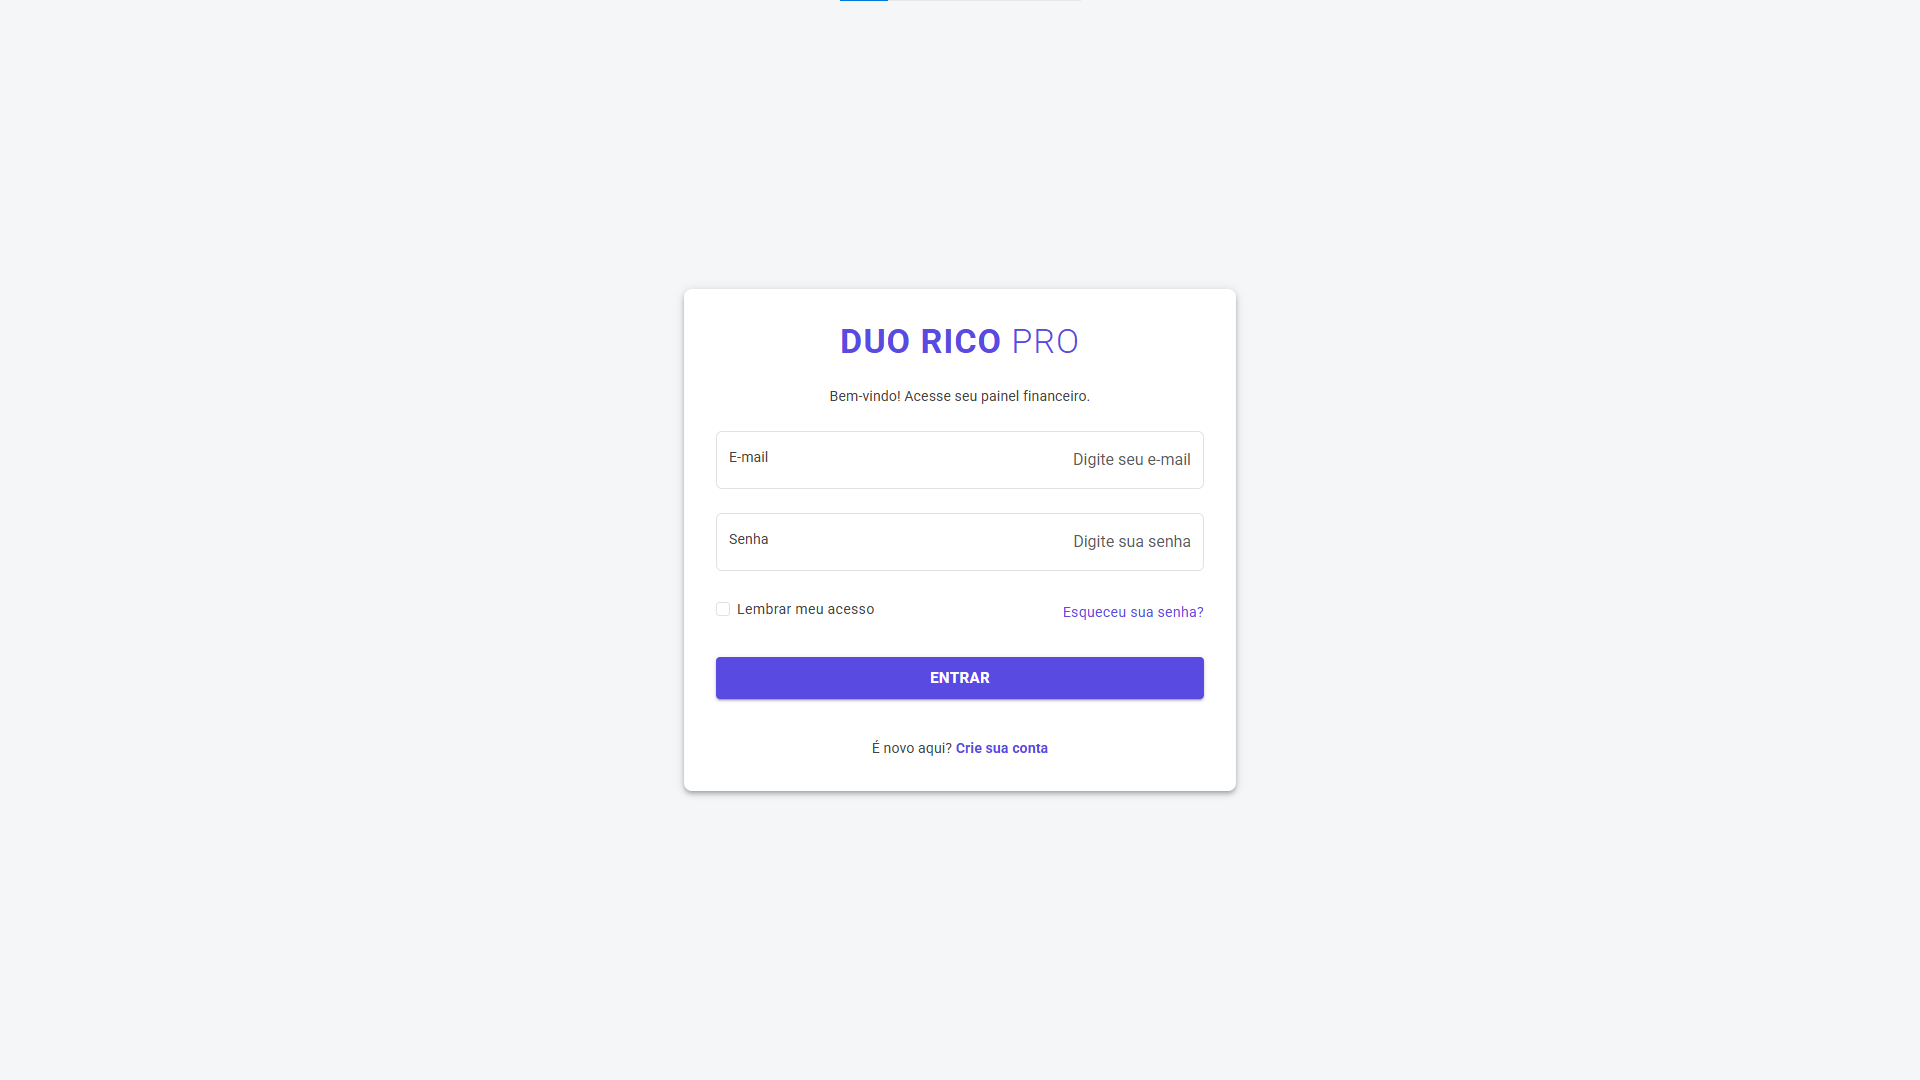
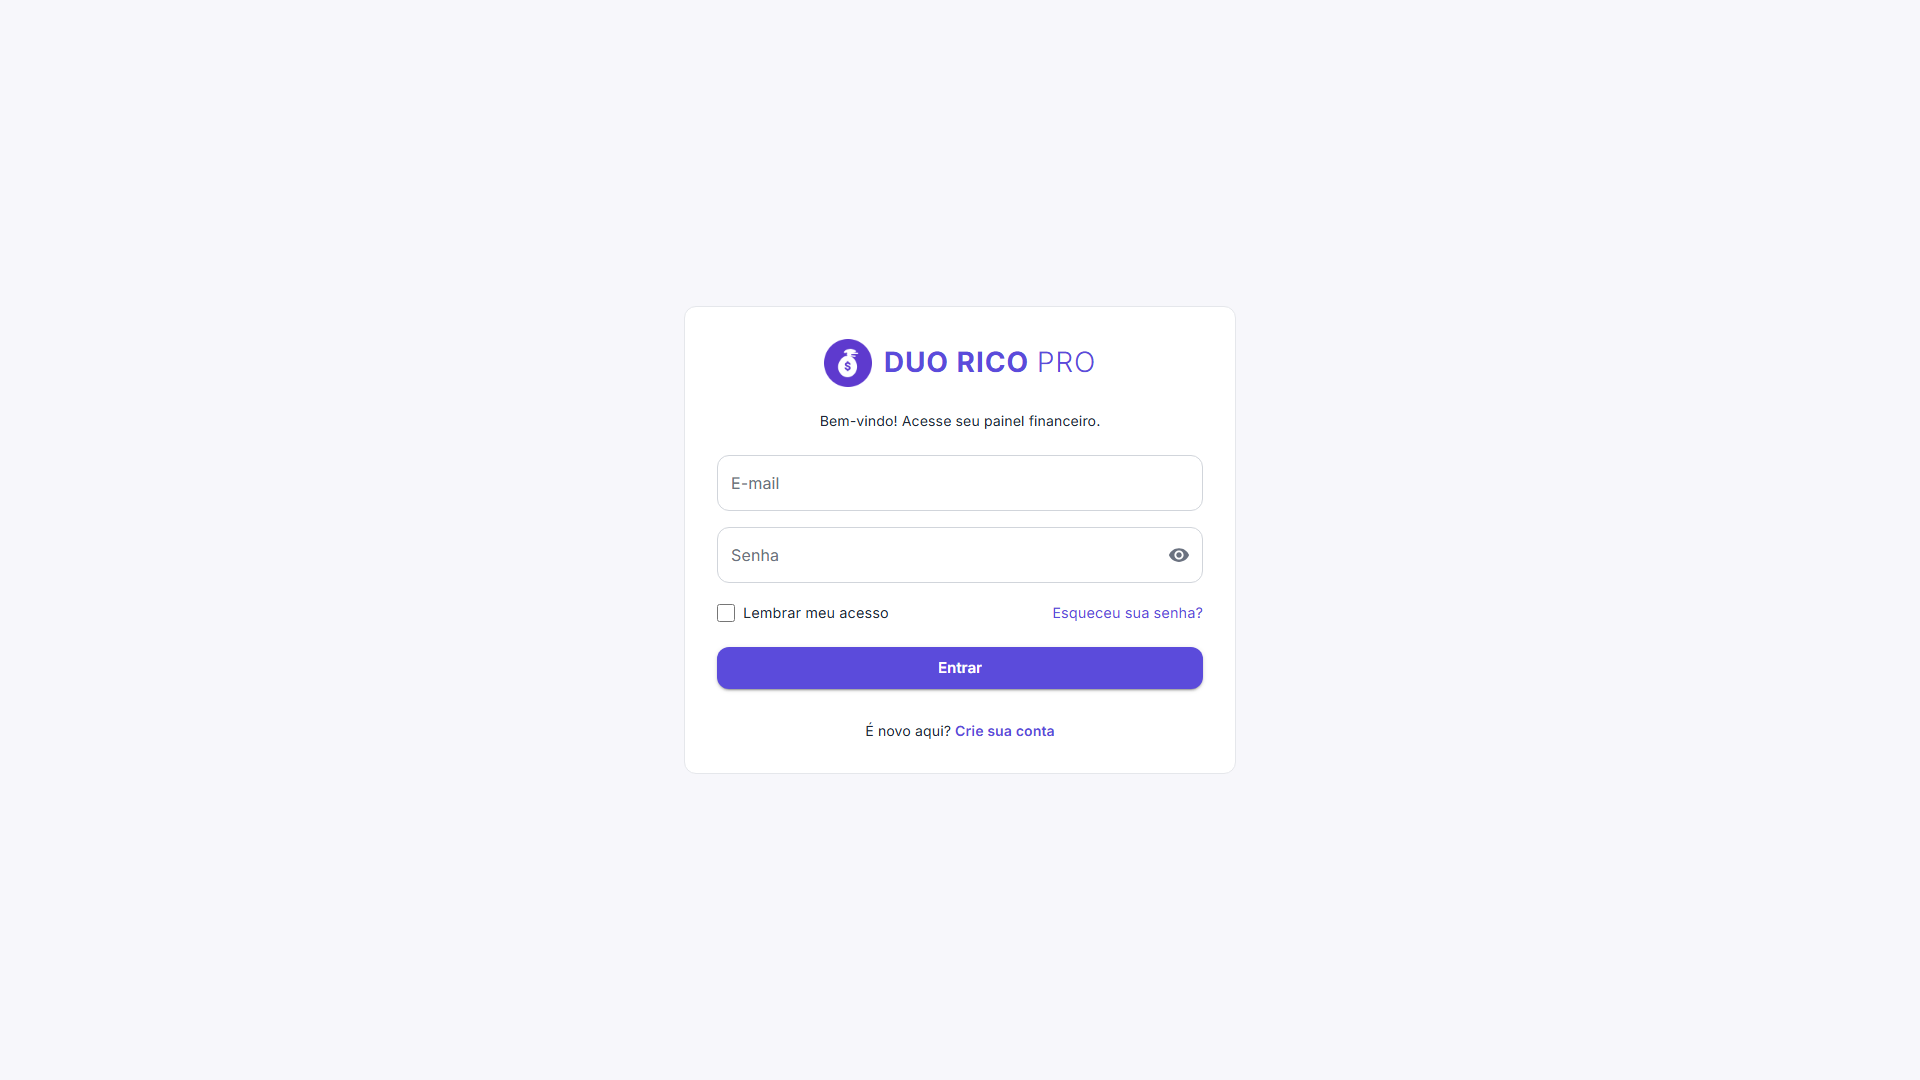
Update README screenshots. Regenerates the 6 existing screenshots in docs/images with the current UI and fictional demo data (two linked demo users on a disposable Neon branch, Brevo replaced by the Log email provider), and adds 3 new ones: expenses, emergency fund dialog and couple page. The README

diff --git a/README.md b/README.md
@@ -389,18 +389,27 @@ Para procedimentos de deploy, rollback, migrations em produção e recuperação
 # 📸 Screenshots
 
 <p align="center">
-  <img src="docs/images/login.png" width="45%">
-  <img src="docs/images/dashboard.png" width="45%">
+  <img src="docs/images/login.png" width="45%" alt="Tela de login">
+  <img src="docs/images/dashboard.png" width="45%" alt="Visão geral com saldo do mês, reserva de emergência, uso do cartão e últimas despesas">
 </p>
 
 <p align="center">
-  <img src="docs/images/income.png" width="45%">
-  <img src="docs/images/profile.png" width="45%">
+  <img src="docs/images/income.png" width="45%" alt="Lista de receitas do mês">
+  <img src="docs/images/expenses.png" width="45%" alt="Lista de despesas do mês com parcelamento">
 </p>
 
 <p align="center">
-  <img src="docs/images/new_transaction.png" width="45%">
-  <img src="docs/images/edit_transaction.png" width="45%">
+  <img src="docs/images/new_transaction.png" width="45%" alt="Diálogo de nova despesa">
+  <img src="docs/images/edit_transaction.png" width="45%" alt="Diálogo de edição de receita">
+</p>
+
+<p align="center">
+  <img src="docs/images/emergency_fund.png" width="45%" alt="Diálogo da reserva de emergência">
+  <img src="docs/images/couple.png" width="45%" alt="Tela de vínculo do casal">
+</p>
+
+<p align="center">
+  <img src="docs/images/profile.png" width="45%" alt="Tela de perfil">
 </p>
 
 ---

diff --git a/CHANGELOG.md b/CHANGELOG.md
@@ -15,6 +15,7 @@ O formato segue o [Keep a Changelog](https://keepachangelog.com/pt-BR/1.1.0/) e 
 ### Alterado
 
 - README enxuto: links para a nova documentação, Dockerfile referenciado em vez de copiado, procedimento do certificado do Data Protection movido para o runbook.
+- Screenshots do README atualizados com dados fictícios, incluindo Despesas, Casal e Reserva de emergência.
 
 ## [1.0.0] - 2026-10-23
 
